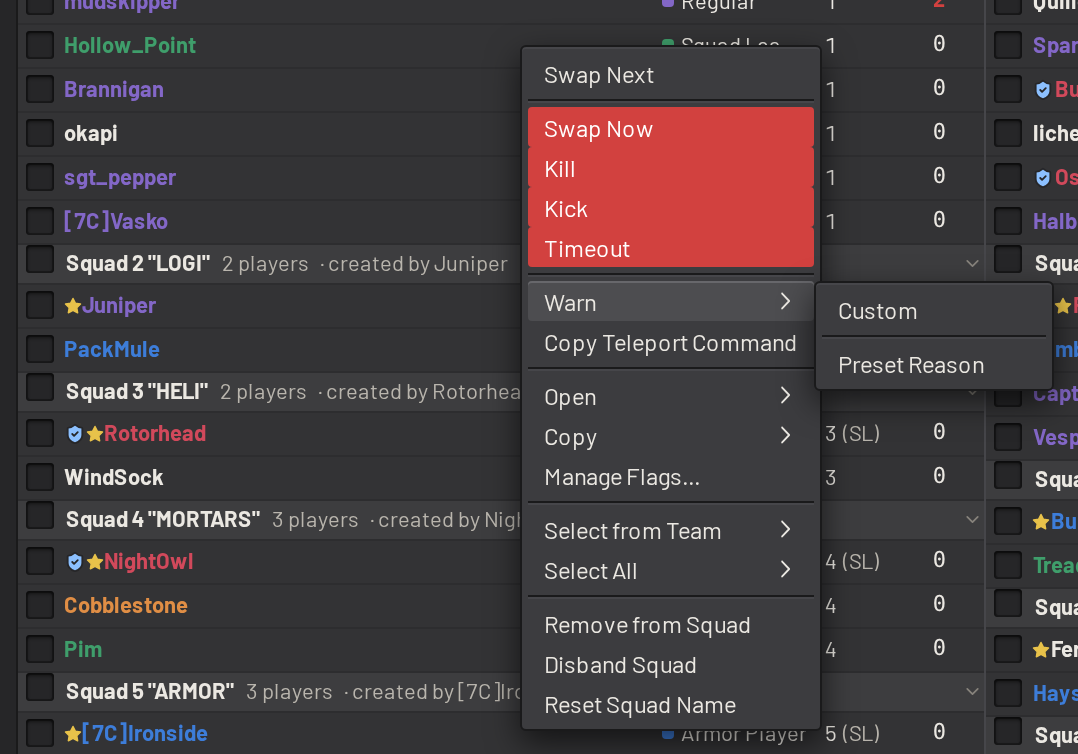
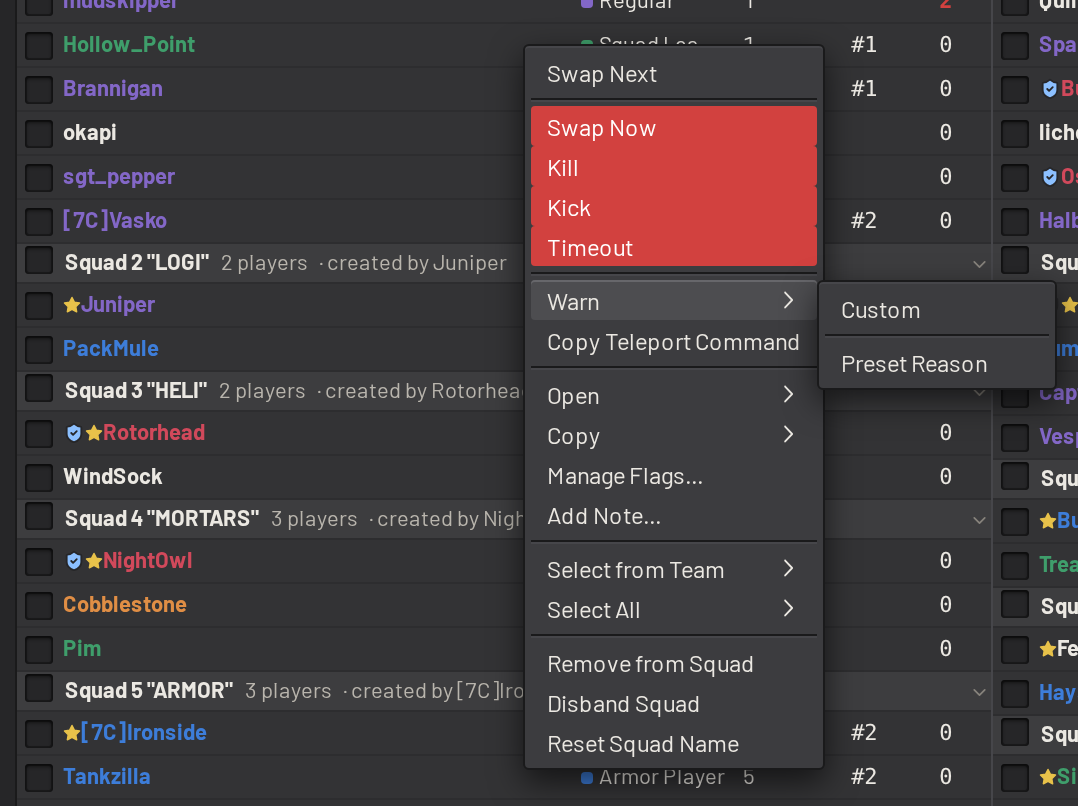
docs(player-management): the party column in the teams panel screenshots
Retakes the three screenshots that show the players table (the teams panel, the
player actions menu and the swaps panel) with players in parties, so the new
Party column shows. The roster, squads, groups and teamkills match the previous
shots. The player management page says what the Party column and the Party
grouping mode do.

diff --git a/docs/player_management.md b/docs/player_management.md
@@ -7,7 +7,10 @@ SLM helps admins moderate and balance the players on their servers, from the das
 The teams panel lists both teams by squad. A _grouping mode_ sorts players into coloured groups by
 [BattleMetrics](integrations_and_hosting.md#battlemetrics) flag, Discord role, a pattern on their name, or their group
 in a standard Squad admin list. Use one to compare how your regulars, your admins or your flagged players split across
-the teams.
+the teams. The _Party_ grouping mode groups players by the in-game party they queued with.
+
+The _Party_ column shows each player's party. Filter or sort the table by party, or shift+click a party to select its
+members on that team.
 
 ![group counts per team](configuring_screenshots/teams_breakdown.png)
 
